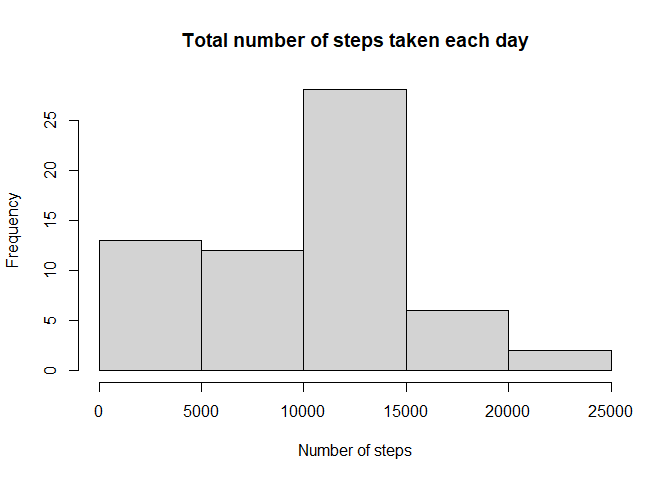
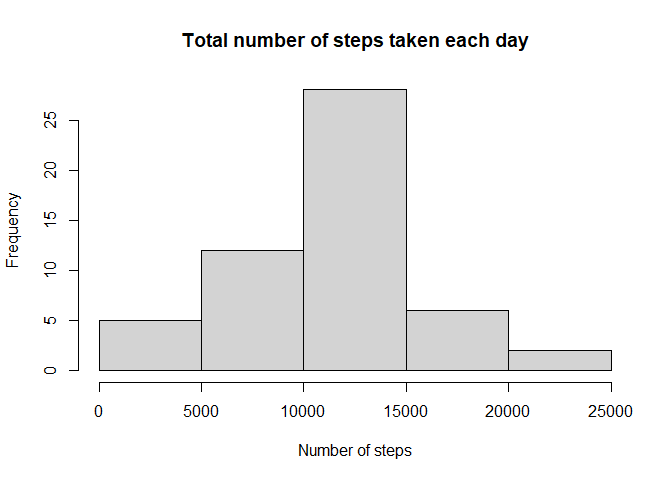
added na.omit to avoid sum=0 with NAs (na.rm was not working as intended)

Changed region(s): [[0.125, 0.5, 0.3125, 0.6875]]

diff --git a/PA1_template.html b/PA1_template.html
@@ -376,22 +376,13 @@ summary {
 </div>
 
 
+<pre class="r"><code>library(dplyr)
+library(ggplot2)</code></pre>
 <div id="loading-and-preprocessing-the-data" class="section level2">
 <h2>Loading and preprocessing the data</h2>
-<div id="load-the-data-i.e.-read.csv" class="section level4">
-<h4>1. Load the data (i.e. read.csv())</h4>
-<pre class="r"><code>library(dplyr)</code></pre>
-<pre><code>## Warning: package &#39;dplyr&#39; was built under R version 4.0.4</code></pre>
-<pre><code>## 
-## Attaching package: &#39;dplyr&#39;</code></pre>
-<pre><code>## The following objects are masked from &#39;package:stats&#39;:
-## 
-##     filter, lag</code></pre>
-<pre><code>## The following objects are masked from &#39;package:base&#39;:
-## 
-##     intersect, setdiff, setequal, union</code></pre>
-<pre class="r"><code>library(ggplot2)
-data &lt;- read.csv(unz(&quot;activity.zip&quot;, &quot;activity.csv&quot;), header = TRUE) </code></pre>
+<div id="load-the-data" class="section level4">
+<h4>1. Load the data</h4>
+<pre class="r"><code>data &lt;- read.csv(unz(&quot;activity.zip&quot;, &quot;activity.csv&quot;), header = TRUE) </code></pre>
 </div>
 <div id="processtransform-the-data-if-necessary-into-a-format-suitable-for-your-analysis" class="section level4">
 <h4>2. Process/transform the data (if necessary) into a format suitable for your analysis</h4>
@@ -403,20 +394,25 @@ data &lt;- read.csv(unz(&quot;activity.zip&quot;, &quot;activity.csv&quot;), hea
 <div id="make-a-histogram-of-the-total-number-of-steps-taken-each-day" class="section level4">
 <h4>1. Make a histogram of the total number of steps taken each day</h4>
 <p>A <strong>histogram</strong> of the total number of steps taken each day is displayed below:</p>
-<pre class="r"><code># group data by day and calculate total of steps per day
-data_by_day &lt;- data %&gt;% dplyr::group_by(date) %&gt;% dplyr::summarize(sum_day =  sum(steps, na.rm = TRUE))
+<pre class="r"><code>#create version of dataset that ignores missing values to avoid generating sum=0 for steps in days with all NA&#39;s
+data_noNA &lt;- na.omit(data)
+
+# group data by day and calculate total of steps per day
+data_by_day &lt;- data_noNA %&gt;% dplyr::group_by(date) %&gt;% dplyr::summarize(sum_day =  sum(steps))
 
 #plot histogram of total steps per day
-with(data = data_by_day, hist(sum_day, main = &quot;Total number of steps taken each day&quot;, 
-                                            xlab = &quot;Number of steps&quot;))</code></pre>
[1 lines of base64/hex data omitted]
+with(data = data_by_day, hist(sum_day, breaks = 7, 
+                              main = &quot;Total number of steps taken each day&quot;, 
+                              xlab = &quot;Number of steps&quot;))</code></pre>
[1 lines of base64/hex data omitted]
 </div>
 <div id="calculate-and-report-the-mean-and-median-total-number-of-steps-taken-per-day" class="section level4">
 <h4>2. Calculate and report the mean and median total number of steps taken per day</h4>
-<pre class="r"><code># calculate the mean and median of the total number of steps taken per day
+<pre class="r"><code>options(scipen=999) # to avoid scientific notation
+# calculate the mean and median of the total number of steps taken per day
 sum_day_mean &lt;- round(mean(data_by_day$sum_day),2)
 sum_day_median &lt;- median(data_by_day$sum_day)</code></pre>
-<p>The <strong>mean</strong> of the total number of steps taken per day equals <strong>9354.23</strong> and the <strong>median</strong> of the total number of steps taken per day equals <strong>10395.</strong></p>
+<p>The <strong>mean</strong> of the total number of steps taken per day equals <strong>10766.19</strong> and the <strong>median</strong> of the total number of steps taken per day equals <strong>10765.</strong></p>
 </div>
 </div>
 <div id="what-is-the-average-daily-activity-pattern" class="section level2">
@@ -425,7 +421,7 @@ sum_day_median &lt;- median(data_by_day$sum_day)</code></pre>
 <h4>1. Make a time series plot (i.e. type = “l”) of the 5-minute interval (x-axis) and the average number of steps taken, averaged across all days (y-axis)</h4>
 <p>A <strong>time series plot</strong> of the 5-minute interval (x-axis) and the average number of steps taken, averaged across all days (y-axis) is displayed below:</p>
 <pre class="r"><code># group data by interval and calculate the average number of steps taken, averaged across all days (y-axis)
-data_by_interval &lt;- data %&gt;% dplyr::group_by(interval) %&gt;% dplyr::summarize(mean_steps =  mean(steps, na.rm = TRUE))
+data_by_interval &lt;- data_noNA %&gt;% dplyr::group_by(interval) %&gt;% dplyr::summarize(mean_steps =  mean(steps, na.rm = TRUE))
 
 # time series plot of the 5-minute interval and the average number of steps taken, averaged across all days
 with(data_by_interval, plot(x = interval, y = mean_steps, type = &quot;l&quot;, 
@@ -452,7 +448,7 @@ with(data_by_interval, plot(x = interval, y = mean_steps, type = &quot;l&quot;,
 </div>
 <div id="create-a-new-dataset-that-is-equal-to-the-original-dataset-but-with-the-missing-data-filled-in." class="section level4">
 <h4>3. Create a new dataset that is equal to the original dataset but with the missing data filled in.</h4>
-<pre class="r"><code>#both 2 and 3 are achieved with the code below:
+<pre class="r"><code>#both points 2. and 3. are achieved with the code below:
 
 #generates a copy of the data in which to add the imputed data
 imputed_data &lt;- data
@@ -471,7 +467,7 @@ data_by_day_imputed &lt;- imputed_data %&gt;% dplyr::group_by(date) %&gt;%
   dplyr::summarize(sum_day =  sum(steps, na.rm = TRUE))
 
 #plot histogram of total steps per day
-with(data = data_by_day_imputed, hist(sum_day, 
+with(data = data_by_day_imputed, hist(sum_day, breaks = 7,
                                 main = &quot;Total number of steps taken each day (imputed data)&quot;,
                                 xlab = &quot;Number of steps&quot;))</code></pre>
[1 lines of base64/hex data omitted]
@@ -479,7 +475,7 @@ with(data = data_by_day_imputed, hist(sum_day,
 sum_day_mean_imputed &lt;- round(mean(data_by_day_imputed$sum_day),2)
 sum_day_median_imputed &lt;- round(median(data_by_day_imputed$sum_day),2)
 options(scipen=999) # to avoid scientific notation</code></pre>
-<p>The <strong>mean</strong> of the total number of steps taken per day equals <strong>10766.19</strong> and the <strong>median</strong> of the total number of steps taken per day equals <strong>10766.19</strong>. The new estimates for the total daily number of steps differ slightly from the non-imputed data estimates, with a larger difference between the means than between the medians. Overall, the imputation appears to have “normalized” the data and reduced its variance.</p>
+<p>The <strong>mean</strong> of the total number of steps taken per day equals <strong>10766.19</strong> and the <strong>median</strong> of the total number of steps taken per day equals <strong>10766.19</strong>. Only the new median estimate for the total daily number of steps differs slightly from the non-imputed data median (10765), the mean is the same as would be expected after imputing the mean steps per interval. Overall, the imputation appears to have reduced the variance of the distribution making it more leptokurtic.</p>
 </div>
 </div>
 <div id="are-there-differences-in-activity-patterns-between-weekdays-and-weekends" class="section level2">

diff --git a/PA1_template.md b/PA1_template.md
@@ -6,37 +6,17 @@ output:
 ---
 
 
-## Loading and preprocessing the data  
-
-#### 1. Load the data (i.e. read.csv())  
-
 ```r
 library(dplyr)
+library(ggplot2)
 ```
 
-```
-## Warning: package 'dplyr' was built under R version 4.0.4
-```
 
-```
-## 
-## Attaching package: 'dplyr'
-```
+## Loading and preprocessing the data  
 
-```
-## The following objects are masked from 'package:stats':
-## 
-##     filter, lag
-```
-
-```
-## The following objects are masked from 'package:base':
-## 
-##     intersect, setdiff, setequal, union
-```
+#### 1. Load the data  
 
 ```r
-library(ggplot2)
 data <- read.csv(unz("activity.zip", "activity.csv"), header = TRUE) 
 ```
 
@@ -55,12 +35,16 @@ A **histogram** of the total number of steps taken each day is displayed below:
 
 
 ```r
+#create version of dataset that ignores missing values to avoid generating sum=0 for steps in days with all NA's
+data_noNA <- na.omit(data)
+
 # group data by day and calculate total of steps per day
-data_by_day <- data %>% dplyr::group_by(date) %>% dplyr::summarize(sum_day =  sum(steps, na.rm = TRUE))
+data_by_day <- data_noNA %>% dplyr::group_by(date) %>% dplyr::summarize(sum_day =  sum(steps))
 
 #plot histogram of total steps per day
-with(data = data_by_day, hist(sum_day, main = "Total number of steps taken each day", 
-                                            xlab = "Number of steps"))
+with(data = data_by_day, hist(sum_day, breaks = 7, 
+                              main = "Total number of steps taken each day", 
+                              xlab = "Number of steps"))
 ```
 
 ![](PA1_template_files/figure-html/plot_byday-1.png)<!-- -->
@@ -68,12 +52,13 @@ with(data = data_by_day, hist(sum_day, main = "Total number of steps taken each 
 #### 2. Calculate and report the mean and median total number of steps taken per day
 
 ```r
+options(scipen=999) # to avoid scientific notation
 # calculate the mean and median of the total number of steps taken per day
 sum_day_mean <- round(mean(data_by_day$sum_day),2)
 sum_day_median <- median(data_by_day$sum_day)
 ```
 
-The **mean** of the total number of steps taken per day equals **9354.23** and the **median** of the total number of steps taken per day equals **10395.**
+The **mean** of the total number of steps taken per day equals **10766.19** and the **median** of the total number of steps taken per day equals **10765.**
 
 ## What is the average daily activity pattern?
 
@@ -84,7 +69,7 @@ A **time series plot** of the 5-minute interval (x-axis) and the average number 
 
 ```r
 # group data by interval and calculate the average number of steps taken, averaged across all days (y-axis)
-data_by_interval <- data %>% dplyr::group_by(interval) %>% dplyr::summarize(mean_steps =  mean(steps, na.rm = TRUE))
+data_by_interval <- data_noNA %>% dplyr::group_by(interval) %>% dplyr::summarize(mean_steps =  mean(steps, na.rm = TRUE))
 
 # time series plot of the 5-minute interval and the average number of steps taken, averaged across all days
 with(data_by_interval, plot(x = interval, y = mean_steps, type = "l", 
@@ -120,7 +105,7 @@ The total **number of missing values** in the dataset equals **2304.**
 #### 3. Create a new dataset that is equal to the original dataset but with the missing data filled in.
 
 ```r
-#both 2 and 3 are achieved with the code below:
+#both points 2. and 3. are achieved with the code below:
 
 #generates a copy of the data in which to add the imputed data
 imputed_data <- data
@@ -143,7 +128,7 @@ data_by_day_imputed <- imputed_data %>% dplyr::group_by(date) %>%
   dplyr::summarize(sum_day =  sum(steps, na.rm = TRUE))
 
 #plot histogram of total steps per day
-with(data = data_by_day_imputed, hist(sum_day, 
+with(data = data_by_day_imputed, hist(sum_day, breaks = 7,
                                 main = "Total number of steps taken each day (imputed data)",
                                 xlab = "Number of steps"))
 ```
@@ -157,7 +142,7 @@ sum_day_median_imputed <- round(median(data_by_day_imputed$sum_day),2)
 options(scipen=999) # to avoid scientific notation
 ```
 
-The **mean** of the total number of steps taken per day equals **10766.19** and the **median** of the total number of steps taken per day equals **10766.19**. The new estimates for the total daily number of steps differ slightly from the non-imputed data estimates, with a larger difference between the means than between the medians. Overall, the imputation appears to have "normalized" the data and reduced its variance.
+The **mean** of the total number of steps taken per day equals **10766.19** and the **median** of the total number of steps taken per day equals **10766.19**. Only the new median estimate for the total daily number of steps differs slightly from the non-imputed data median (10765), the mean is the same as would be expected after imputing the mean steps per interval. Overall, the imputation appears to have reduced the variance of the distribution making it more leptokurtic.
 
 
 ## Are there differences in activity patterns between weekdays and weekends?
